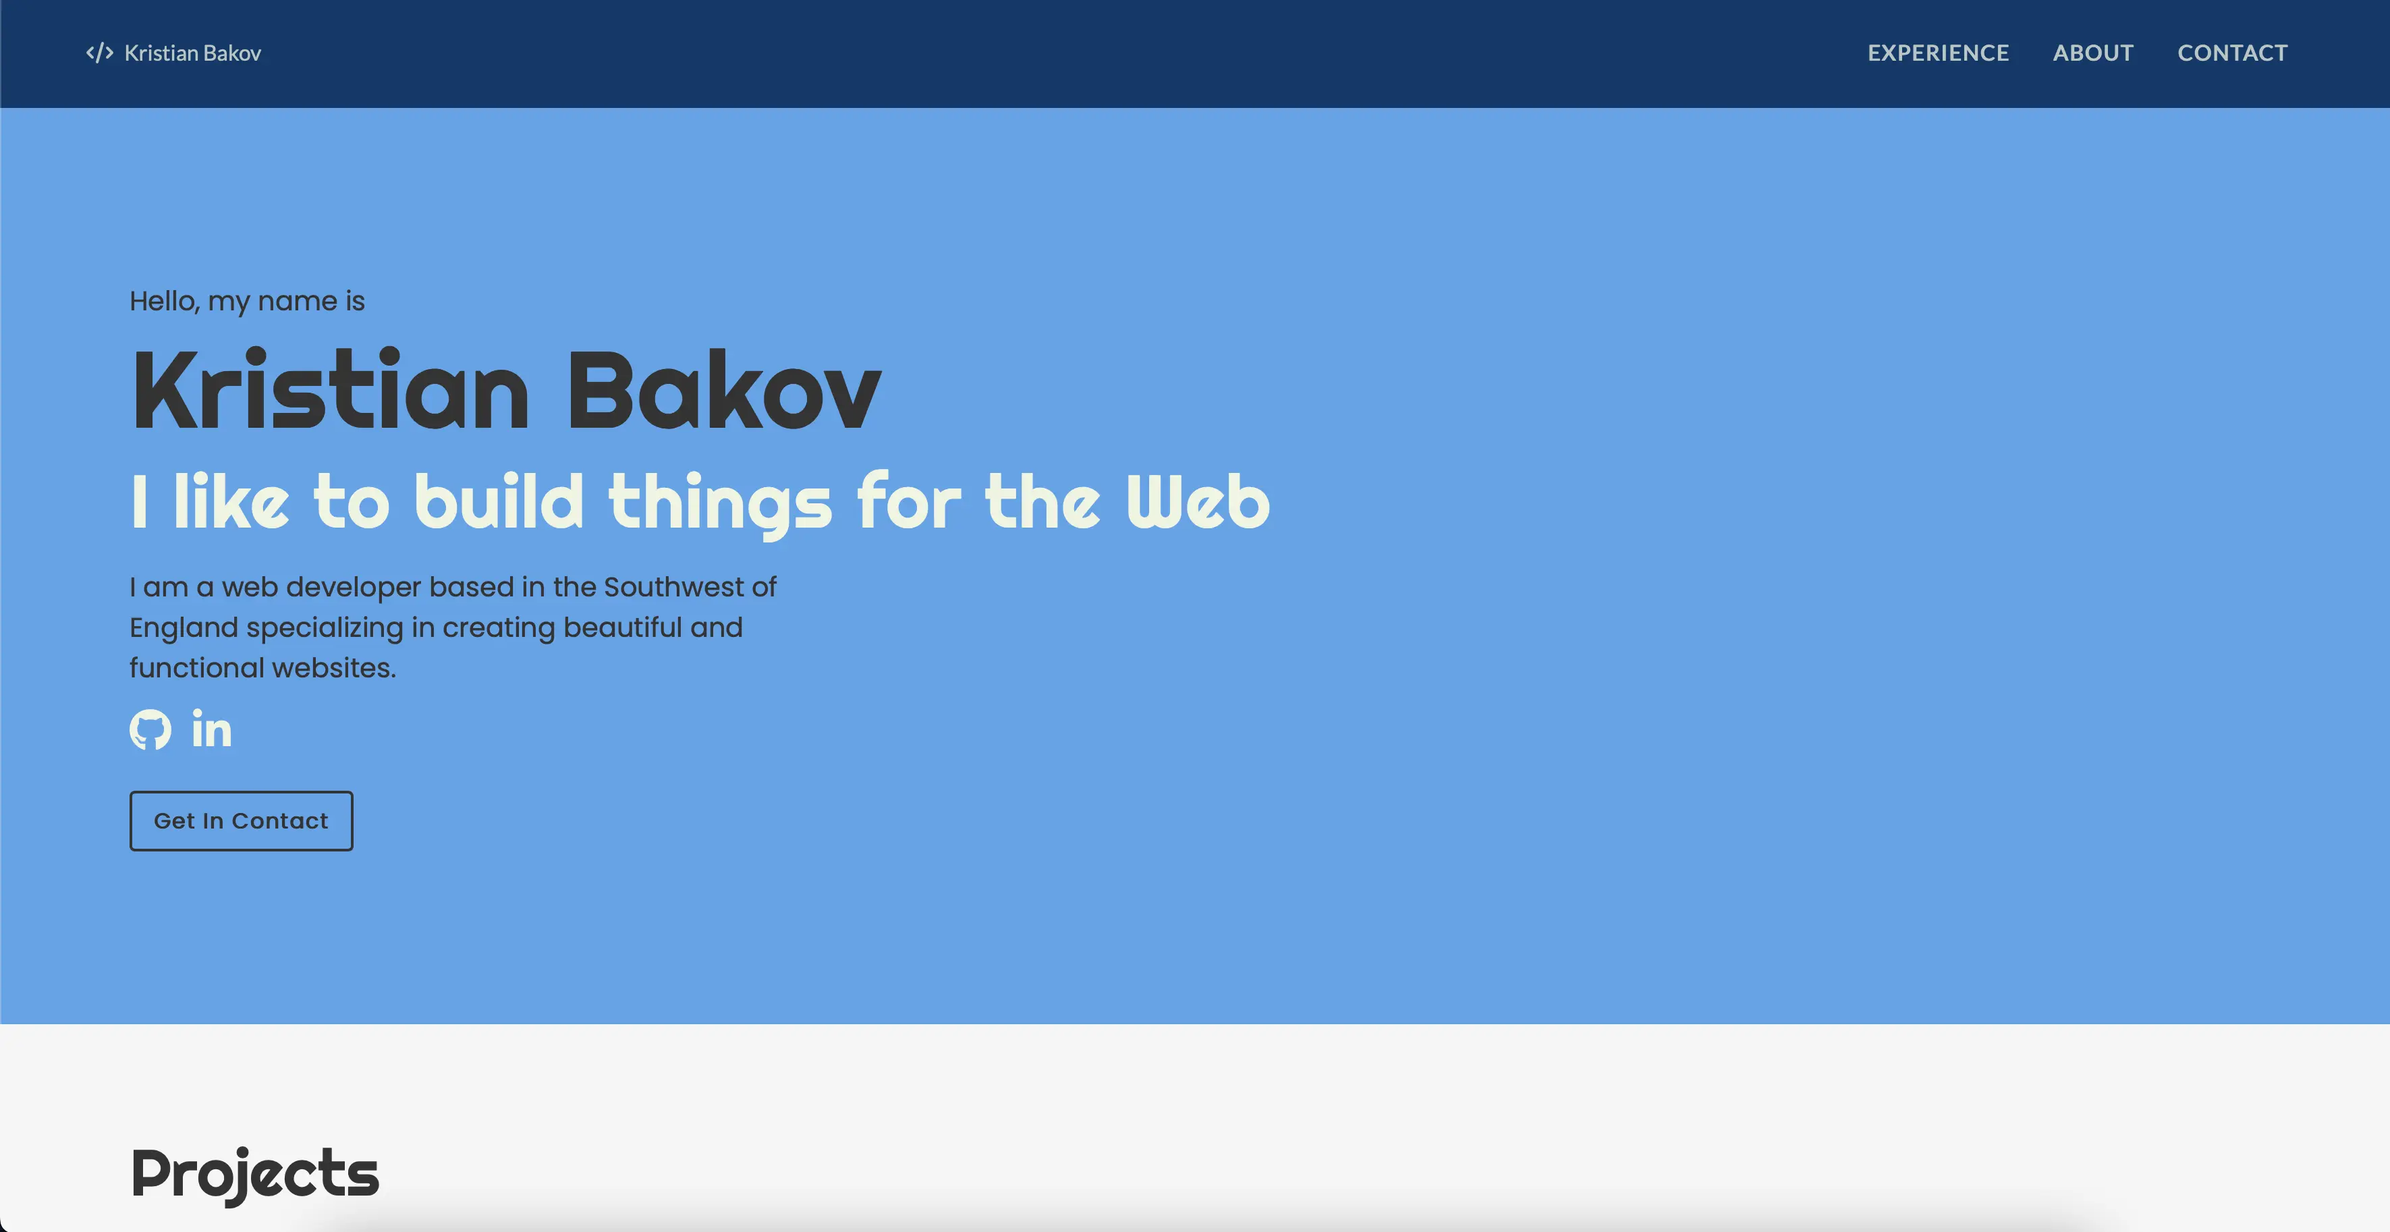
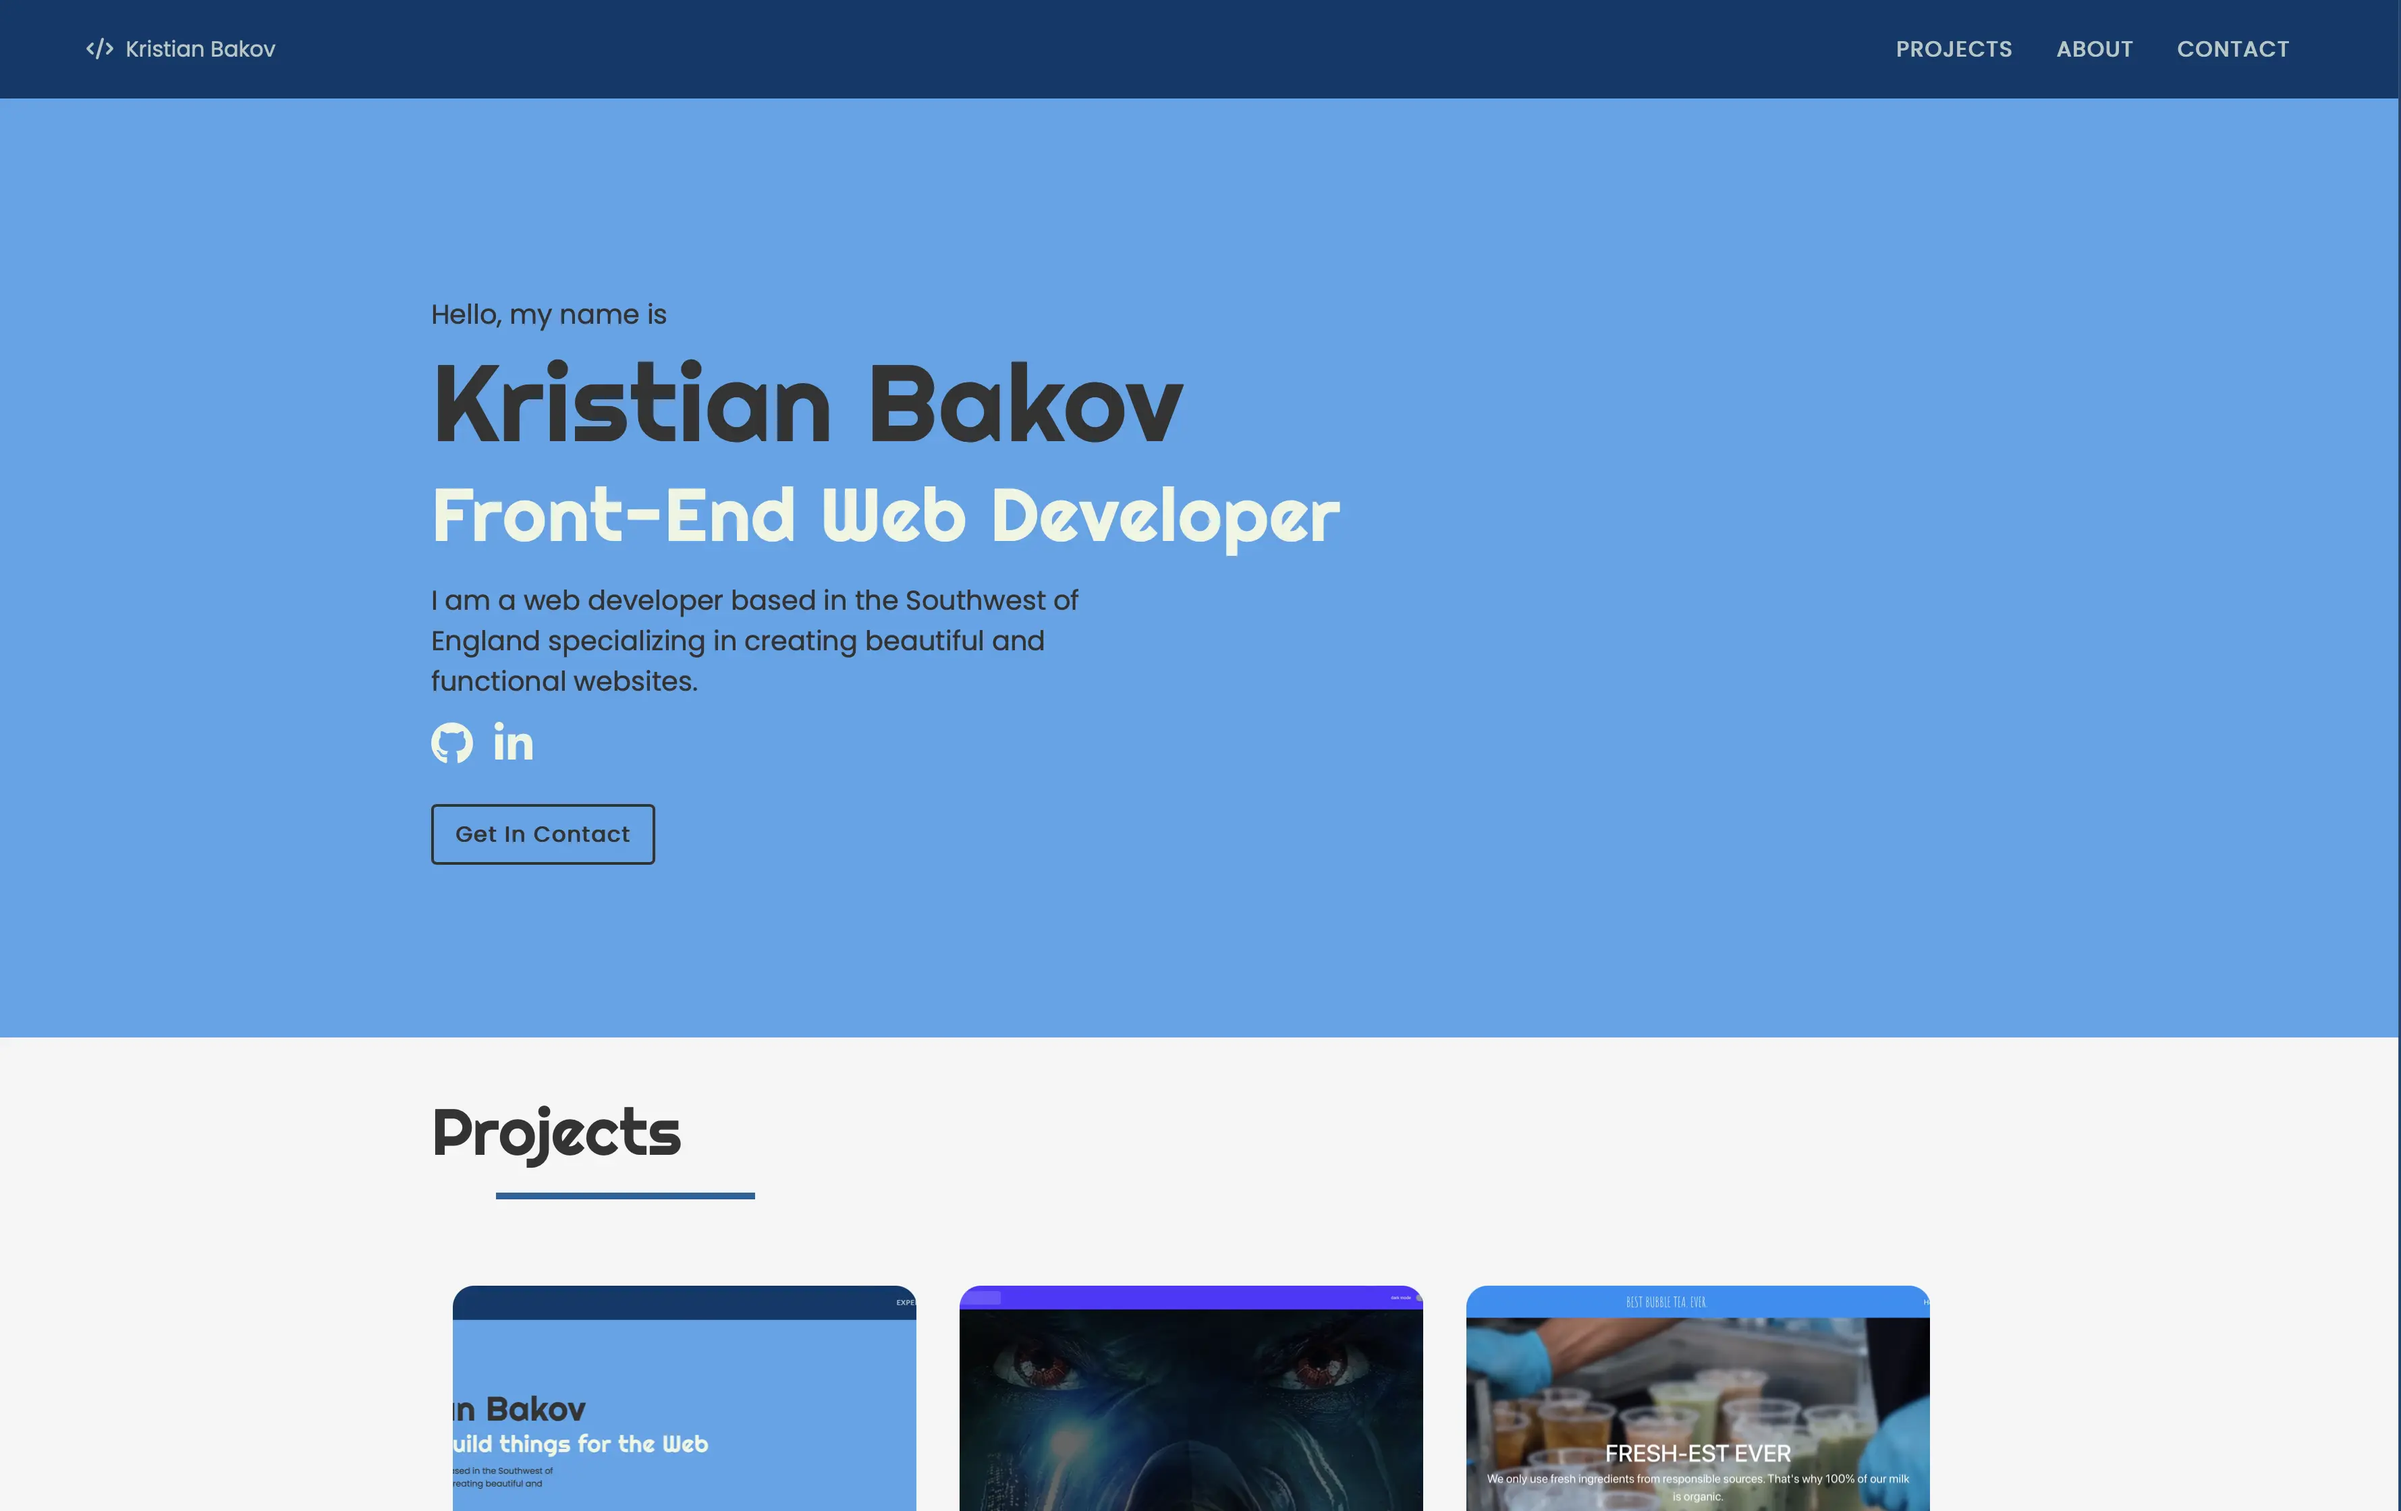
Added responsive navbar

diff --git a/styles/style.scss b/styles/style.scss
@@ -125,6 +125,11 @@ section:not(.modal-bg):nth-child(even) {
   flex-wrap: wrap;
 }
 
+.stop-scrolling {
+  height: 100%;
+  overflow: hidden;
+}
+
 /* Nav */
 .nav-container {
   position: fixed;
@@ -139,14 +144,18 @@ section:not(.modal-bg):nth-child(even) {
   -webkit-box-align: center;
   -ms-flex-align: center;
   align-items: center;
-  padding: 32px 64px 32px 64px;
+  padding: 24px 64px;
   background-color: var(--secondary-color);
   font-size: 16px;
+
+  a {
+    z-index: 100;
+  }
 }
 
 @media (max-width: 768px) {
   .nav-container {
-    padding: 32px;
+    padding: 16px 32px;
   }
 }
 
@@ -172,24 +181,74 @@ section:not(.modal-bg):nth-child(even) {
   }
 }
 
+/* Responsive Menu */
+
 .hamburger {
   display: none;
+  z-index: 100;
 }
 
-.stop-scrolling {
-  height: 100%;
-  overflow: hidden;
-}
-
-/* Responsive Menu */
 @media (max-width: 768px) {
-  .nav-primary {
+  .header-nav {
     display: none;
   }
 
   .hamburger {
     display: block;
+    cursor: pointer;
+
+    .bar1,
+    .bar2,
+    .bar3 {
+      pointer-events: none;
+      width: 35px;
+      height: 5px;
+      background-color: #eeeeee;
+      margin: 6px 0;
+      -webkit-transition: 0.4s;
+      transition: 0.4s;
+    }
   }
+
+  header nav.change.header-nav {
+    display: block;
+    text-align: center;
+    position: fixed;
+    margin: 0 auto;
+    width: 100%;
+    height: -webkit-fit-content;
+    height: -moz-fit-content;
+    height: fit-content;
+    left: 0;
+    z-index: 30;
+    overflow: hidden;
+    background-color: var(--secondary-color);
+  }
+  header nav.change.header-nav ul.change {
+    -webkit-box-orient: vertical;
+    -webkit-box-direction: normal;
+    -ms-flex-direction: column;
+    flex-direction: column;
+    margin-top: 264px;
+
+    li {
+      padding: 20px 0;
+    }
+  }
+}
+
+.change.hamburger .bar1 {
+  -webkit-transform: rotate(-45deg) translate(-9px, 6px);
+  transform: rotate(-45deg) translate(-9px, 6px);
+}
+
+.change.hamburger .bar2 {
+  opacity: 0;
+}
+
+.change.hamburger .bar3 {
+  -webkit-transform: rotate(45deg) translate(-8px, -8px);
+  transform: rotate(45deg) translate(-8px, -8px);
 }
 
 /* Hero */
@@ -393,7 +452,7 @@ hr.custom-divider {
   }
 
   hr {
-    background-color: var(--text-color-dark);
+    background-color: var(--text-color-light);
   }
 }
 

diff --git a/index.html b/index.html
@@ -29,11 +29,11 @@
           </ul>
         </nav>
 
-        <div class="hamburger">
-          <i class="fa fa-bars fa-lg"></i>
-          <!-- <div class="bar1"></div>
+        <div class="hamburger" id="hamburger">
+          <!-- <i class="fa fa-bars fa-lg"></i> -->
+          <div class="bar1"></div>
           <div class="bar2"></div>
-          <div class="bar3"></div> -->
+          <div class="bar3"></div>
         </div>
       </div>
     </header>
@@ -45,7 +45,7 @@
           <div class="introduction">
             <p class="dark">Hello, my name is</p>
             <h1 class="dark">Kristian Bakov</h1>
-            <h2>I like to build things for the Web</h2>
+            <h2>Front-End Web Developer</h2>
 
             <p class="summary">
               I am a web developer based in the Southwest of England
@@ -90,12 +90,10 @@
             <hr class="custom-divider" />
             <div class="flex-container">
                 <div class="about-text">
-                    <p>Hi! My name is Kristian Bakov and I am a web developer based in
-                        the Southwest
-                        of England. My path
-                        towards web
-                        development is long; I was a game developer graduate and worked in the field for over three years.
-                        Eventually I started working on game UI which led me to creating responsive pages for games for multiple clients. </p>
+                    <p>Hi there! I'm Kristian. I'm a passionate introvert who loves building things with code.
+                        Since I was a kid, I loved playing games. This lead up to me getting a bachlor degree in Games Development, and then spending
+                        three years as a game developer working for big clients such as Respawn and Machine Games. Eventually my path led to creating
+                        UI systems and I loved it. Since then, I have been passionate about creating responsive and beautiful cutting edge UI.  </p>
 
                     <p style="padding-top: 8px;"> This passion then led me to start my own web development journey.</p>
                     <p style="padding-top: 32px; text-decoration: underline">Here are some technologies I can work with:</p>

diff --git a/styles/style.css b/styles/style.css
@@ -116,6 +116,11 @@ section:not(.modal-bg):nth-child(even) {
   flex-wrap: wrap;
 }
 
+.stop-scrolling {
+  height: 100%;
+  overflow: hidden;
+}
+
 /* Nav */
 .nav-container {
   position: fixed;
@@ -124,14 +129,17 @@ section:not(.modal-bg):nth-child(even) {
   display: flex;
   justify-content: space-between;
   align-items: center;
-  padding: 32px 64px 32px 64px;
+  padding: 24px 64px;
   background-color: var(--secondary-color);
   font-size: 16px;
+}
+.nav-container a {
+  z-index: 100;
 }
 
 @media (max-width: 768px) {
   .nav-container {
-    padding: 32px;
+    padding: 16px 32px;
   }
 }
 .nav-primary {
@@ -151,25 +159,67 @@ section:not(.modal-bg):nth-child(even) {
     margin: 0 8px;
   }
 }
+/* Responsive Menu */
 .hamburger {
   display: none;
+  z-index: 100;
 }
 
-.stop-scrolling {
-  height: 100%;
-  overflow: hidden;
-}
-
-/* Responsive Menu */
 @media (max-width: 768px) {
-  .nav-primary {
+  .header-nav {
     display: none;
   }
 
   .hamburger {
     display: block;
+    cursor: pointer;
+  }
+  .hamburger .bar1,
+.hamburger .bar2,
+.hamburger .bar3 {
+    pointer-events: none;
+    width: 35px;
+    height: 5px;
+    background-color: #eeeeee;
+    margin: 6px 0;
+    transition: 0.4s;
+  }
+
+  header nav.change.header-nav {
+    display: block;
+    text-align: center;
+    position: fixed;
+    margin: 0 auto;
+    width: 100%;
+    height: -webkit-fit-content;
+    height: -moz-fit-content;
+    height: fit-content;
+    left: 0;
+    z-index: 30;
+    overflow: hidden;
+    background-color: var(--secondary-color);
+  }
+
+  header nav.change.header-nav ul.change {
+    flex-direction: column;
+    margin-top: 264px;
+  }
+  header nav.change.header-nav ul.change li {
+    padding: 20px 0;
   }
 }
+.change.hamburger .bar1 {
+  transform: rotate(-45deg) translate(-9px, 6px);
+}
+
+.change.hamburger .bar2 {
+  opacity: 0;
+}
+
+.change.hamburger .bar3 {
+  transform: rotate(45deg) translate(-8px, -8px);
+}
+
 /* Hero */
 .hero {
   font: normal 20px "Poppins";
@@ -334,7 +384,7 @@ hr.custom-divider {
   max-width: 55%;
 }
 .about-me hr {
-  background-color: var(--text-color-dark);
+  background-color: var(--text-color-light);
 }
 
 @media (max-width: 768px) {

diff --git a/javascript/responsivemenu.js b/javascript/responsivemenu.js
@@ -1,11 +1,12 @@
 (function () {
-  const hamburgerMenu = document.querySelector("div.hamburger");
+  const hamburgerMenu = document.getElementById("hamburger");
   const respMenuElements = document.querySelectorAll(
     "nav.header-nav, ul.nav-primary"
   );
 
   function toggleMenu(x) {
     x.classList.toggle("change");
+    console.log(respMenuElements);
   }
 
   hamburgerMenu.addEventListener("click", () => {
